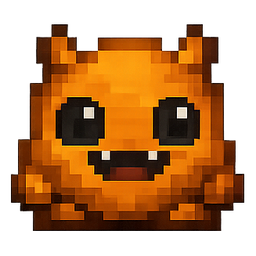
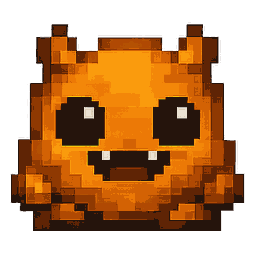
run 2 blok F: paginagewicht
Schermen naar webp met srcset (browse 98 naar 43/24, timer 120 naar
22, share 62 naar 9, coach 56 naar 28, open 33 naar 14), muurfoto en
CTA-foto naar webp. Grootste vondst: monster-green.png was stiekem
1254px en 1,4MB; alle drie de monsters gequantiseerd en op 256px
(green 1420KB naar 6KB, orange 68 naar 5, red 67 naar 7).

diff --git a/why/index.html b/why/index.html
@@ -168,19 +168,19 @@
       <div class="send-stage">
         <ol class="send-flow">
           <li class="send-step ss1">
-            <div class="shot-crop"><img src="assets/lib-browse.png" width="780" height="1688" loading="lazy" alt="Crimpify browse view with session shelves sorted by goal and time"></div>
+            <div class="shot-crop"><img src="assets/browse-420.webp" srcset="assets/browse-420.webp 420w, assets/browse-780.webp 780w" sizes="(max-width:768px) 100vw, 260px" width="780" height="1688" loading="lazy" alt="Crimpify browse view with session shelves sorted by goal and time"></div>
             <div class="step-txt"><span class="step-no">01</span><span class="step-t">Find it</span><span class="step-b">Pick the time you have. Get a session with a reason to exist.</span></div>
           </li>
           <li class="send-step ss2">
-            <img class="shot" src="assets/shot-open.png" width="540" height="960" loading="lazy" alt="A shared session opened from a link: Ines sent you Flow State, ready to start without an account">
+            <img class="shot" src="assets/shot-open-540.webp" width="540" height="960" loading="lazy" alt="A shared session opened from a link: Ines sent you Flow State, ready to start without an account">
             <div class="step-txt"><span class="step-no">02</span><span class="step-t">Train it</span><span class="step-b">Open the link and go. No account, no setup, no signup wall.</span></div>
           </li>
           <li class="send-step ss3">
-            <div class="shot-crop"><img src="assets/shot-timer.png" width="540" height="960" loading="lazy" alt="A running block timer with pause, finish and skip controls"></div>
+            <div class="shot-crop"><img src="assets/shot-timer-540.webp" width="540" height="960" loading="lazy" alt="A running block timer with pause, finish and skip controls"></div>
             <div class="step-txt"><span class="step-no">03</span><span class="step-t">Adapt it</span><span class="step-b">Stop a set. Skip a block. Change the call. The session bends.</span></div>
           </li>
           <li class="send-step ss4">
-            <div class="shot-crop"><img src="assets/shot-share.png" width="540" height="960" loading="lazy" alt="The share dialog with a single session link ready to copy"></div>
+            <div class="shot-crop"><img src="assets/shot-share-540.webp" width="540" height="960" loading="lazy" alt="The share dialog with a single session link ready to copy"></div>
             <div class="step-txt"><span class="step-no">04</span><span class="step-t">Send it</span><span class="step-b">Pass it on with one link. Your name stays on it.</span></div>
           </li>
         </ol>
@@ -285,8 +285,8 @@
           <!-- één gebalanceerd paar: foto en scherm even groot, harde
                rechthoeken, 34,6% overlap; het scherm ligt voor, de
                klimmer blijft volledig zichtbaar in het linkerdeel -->
-          <div class="coach-wall-frame"><img class="coach-wall" src="assets/coach-wall-500.jpg" srcset="assets/coach-wall-500.jpg 500w, assets/coach-wall-1000.jpg 1000w" sizes="(max-width:768px) 88vw, 520px" width="500" height="751" loading="lazy" alt="A climber mid-move on a steep indoor bouldering wall"></div>
-          <img class="shot coach-screen" src="assets/shot-coach.png" width="540" height="960" loading="lazy" alt="A coach's session in Crimpify: Five by Five with its blocks, coach credit and start action">
+          <div class="coach-wall-frame"><img class="coach-wall" src="assets/coach-wall-500.webp" srcset="assets/coach-wall-500.webp 500w, assets/coach-wall-1000.webp 1000w" sizes="(max-width:768px) 88vw, 520px" width="500" height="751" loading="lazy" alt="A climber mid-move on a steep indoor bouldering wall"></div>
+          <img class="shot coach-screen" src="assets/shot-coach-540.webp" width="540" height="960" loading="lazy" alt="A coach's session in Crimpify: Five by Five with its blocks, coach credit and start action">
         </div>
       </div>
       <!-- wat er wordt gebouwd: intentie, geen beschikbaarheid; items uit
@@ -348,7 +348,7 @@
       </div>
       <p class="cta-ambition">Building the world's largest open climbing training library.</p>
     </div>
-    <img class="cta-photo" src="assets/cta-wide-1440.jpg" srcset="assets/cta-wide-720.jpg 720w, assets/cta-wide-1440.jpg 1440w" sizes="100vw" width="1440" height="810" loading="lazy" alt="A boulderer pulling onto an overhanging boulder while a spotter watches">
+    <img class="cta-photo" src="assets/cta-wide-1440.webp" srcset="assets/cta-wide-720.webp 720w, assets/cta-wide-1440.webp 1440w" sizes="100vw" width="1440" height="810" loading="lazy" alt="A boulderer pulling onto an overhanging boulder while a spotter watches">
     <div class="cta-shade" aria-hidden="true"></div>
   </section>
 </main>
